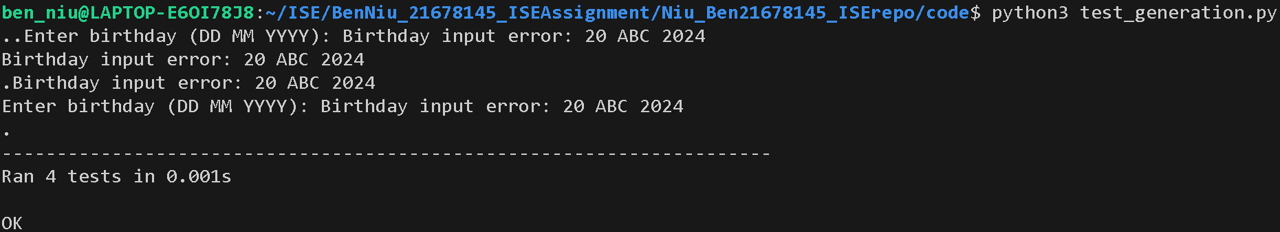
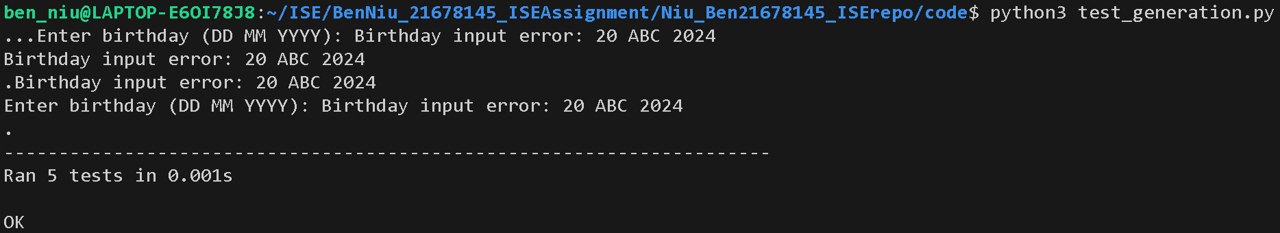
Add 1 more test case.

diff --git a/code/test_generation.py b/code/test_generation.py
@@ -72,6 +72,10 @@ class TestGeneration(unittest.TestCase):
         self.assertFalse(actual)
         os.remove(input_file_name)
 
+    def test_get_generation_wb(self):
+        self.assertEqual("Generation Z", generation.get_generation(2000))
+        self.assertEqual(None, generation.get_generation(2025))
+
     def test_main_wb(self):
         input_file_name = "input.txt"
         output_file_name = "output.txt"
@@ -98,7 +102,7 @@ class TestGeneration(unittest.TestCase):
             self.assertTrue("Generation Alpha" in output_file.readline())
         os.remove(input_file_name)
         os.remove(output_file_name)
-        
+
         sys.stdin = io.StringIO("20 ABC 2024")
         actual = generation.main()
         self.assertFalse(actual)
